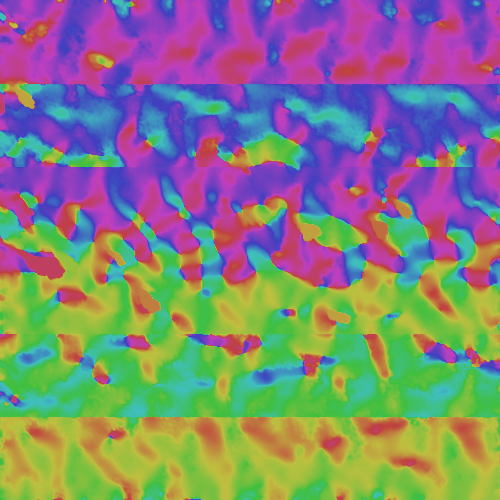
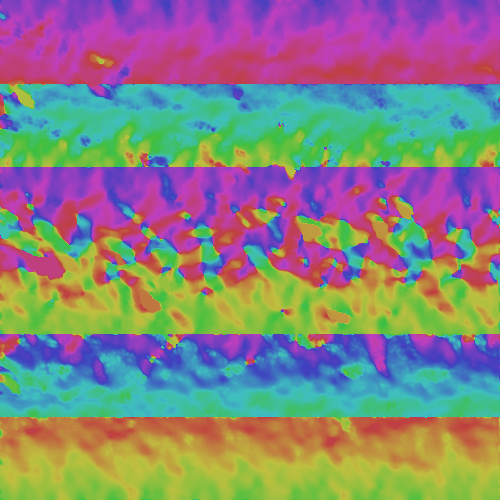
Reduce pressure sample distance

diff --git a/src/main/java/me/alexng/worldGen/pipeline/pipes/WindPipeWorder.java b/src/main/java/me/alexng/worldGen/pipeline/pipes/WindPipeWorder.java
@@ -75,7 +75,7 @@ public class WindPipeWorder implements PipeWorker {
     @Producer(name = "pressure", stored = true)
     public Velocity pressure(PlanePoint point, @Consume(name = "temperature", blocked = true) Float[] temperature,
             @Consume(name = "temp_average", blocked = true) Float[] avg_temperature) {
-        final int SAMPLE_WIDTH = 20;
+        final int SAMPLE_WIDTH = 5;
         Vector2f total = new Vector2f();
         Vector2f totalWeight = new Vector2f();
         int num = 0;
@@ -98,8 +98,7 @@ public class WindPipeWorder implements PipeWorker {
                 }
 
                 Vector2f weight = new Vector2f(lTemp - NoiseHelper.normalize(avg_temperature[ny * sampleWidth + nx]));
-                total.add(
-                        new Vector2f(lx - nx, ly - ny).normalize().mul(weight));
+                total.add(new Vector2f(lx - nx, ly - ny).normalize().mul(weight));
                 totalWeight.add(weight);
                 num++;
 
